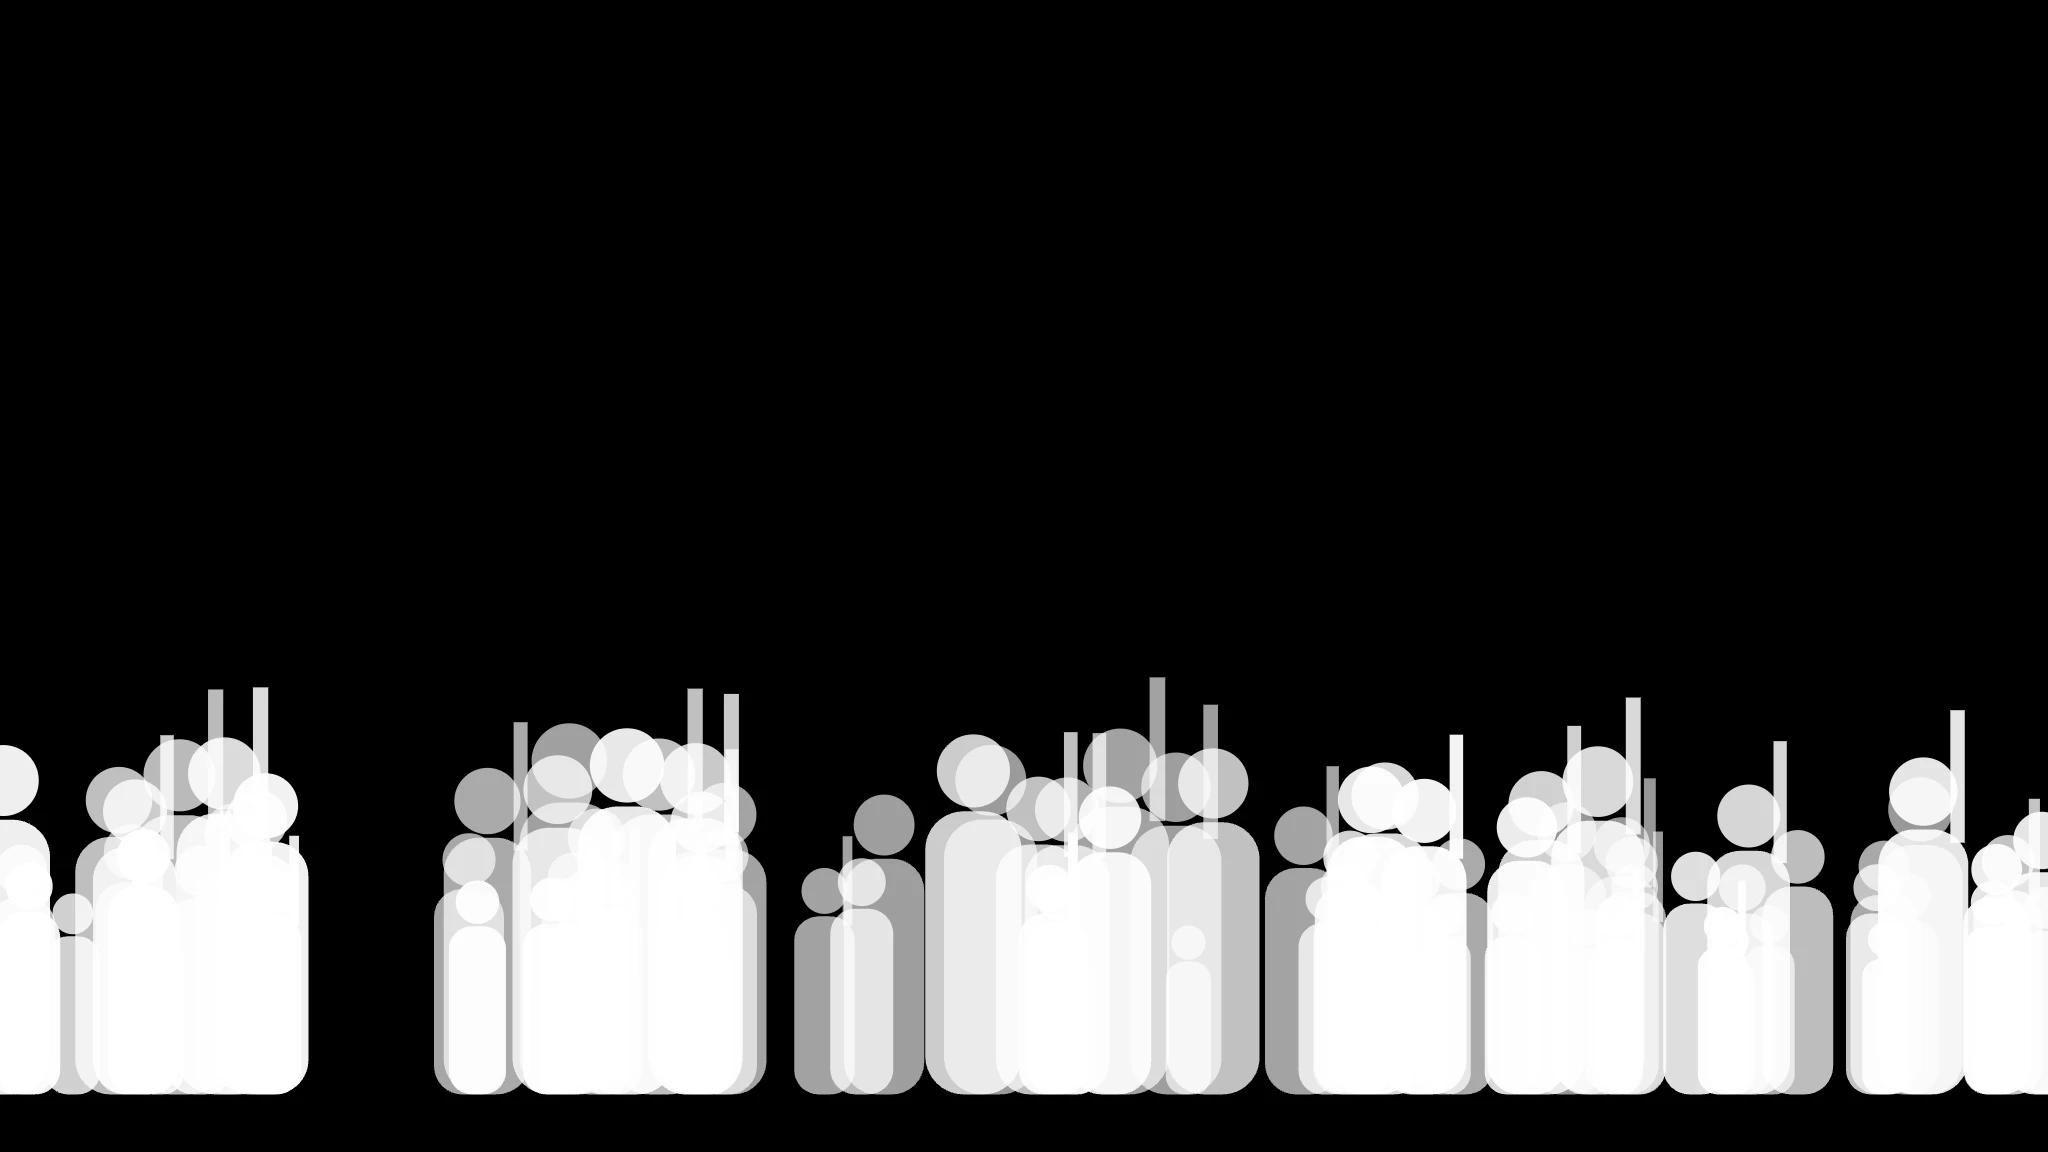
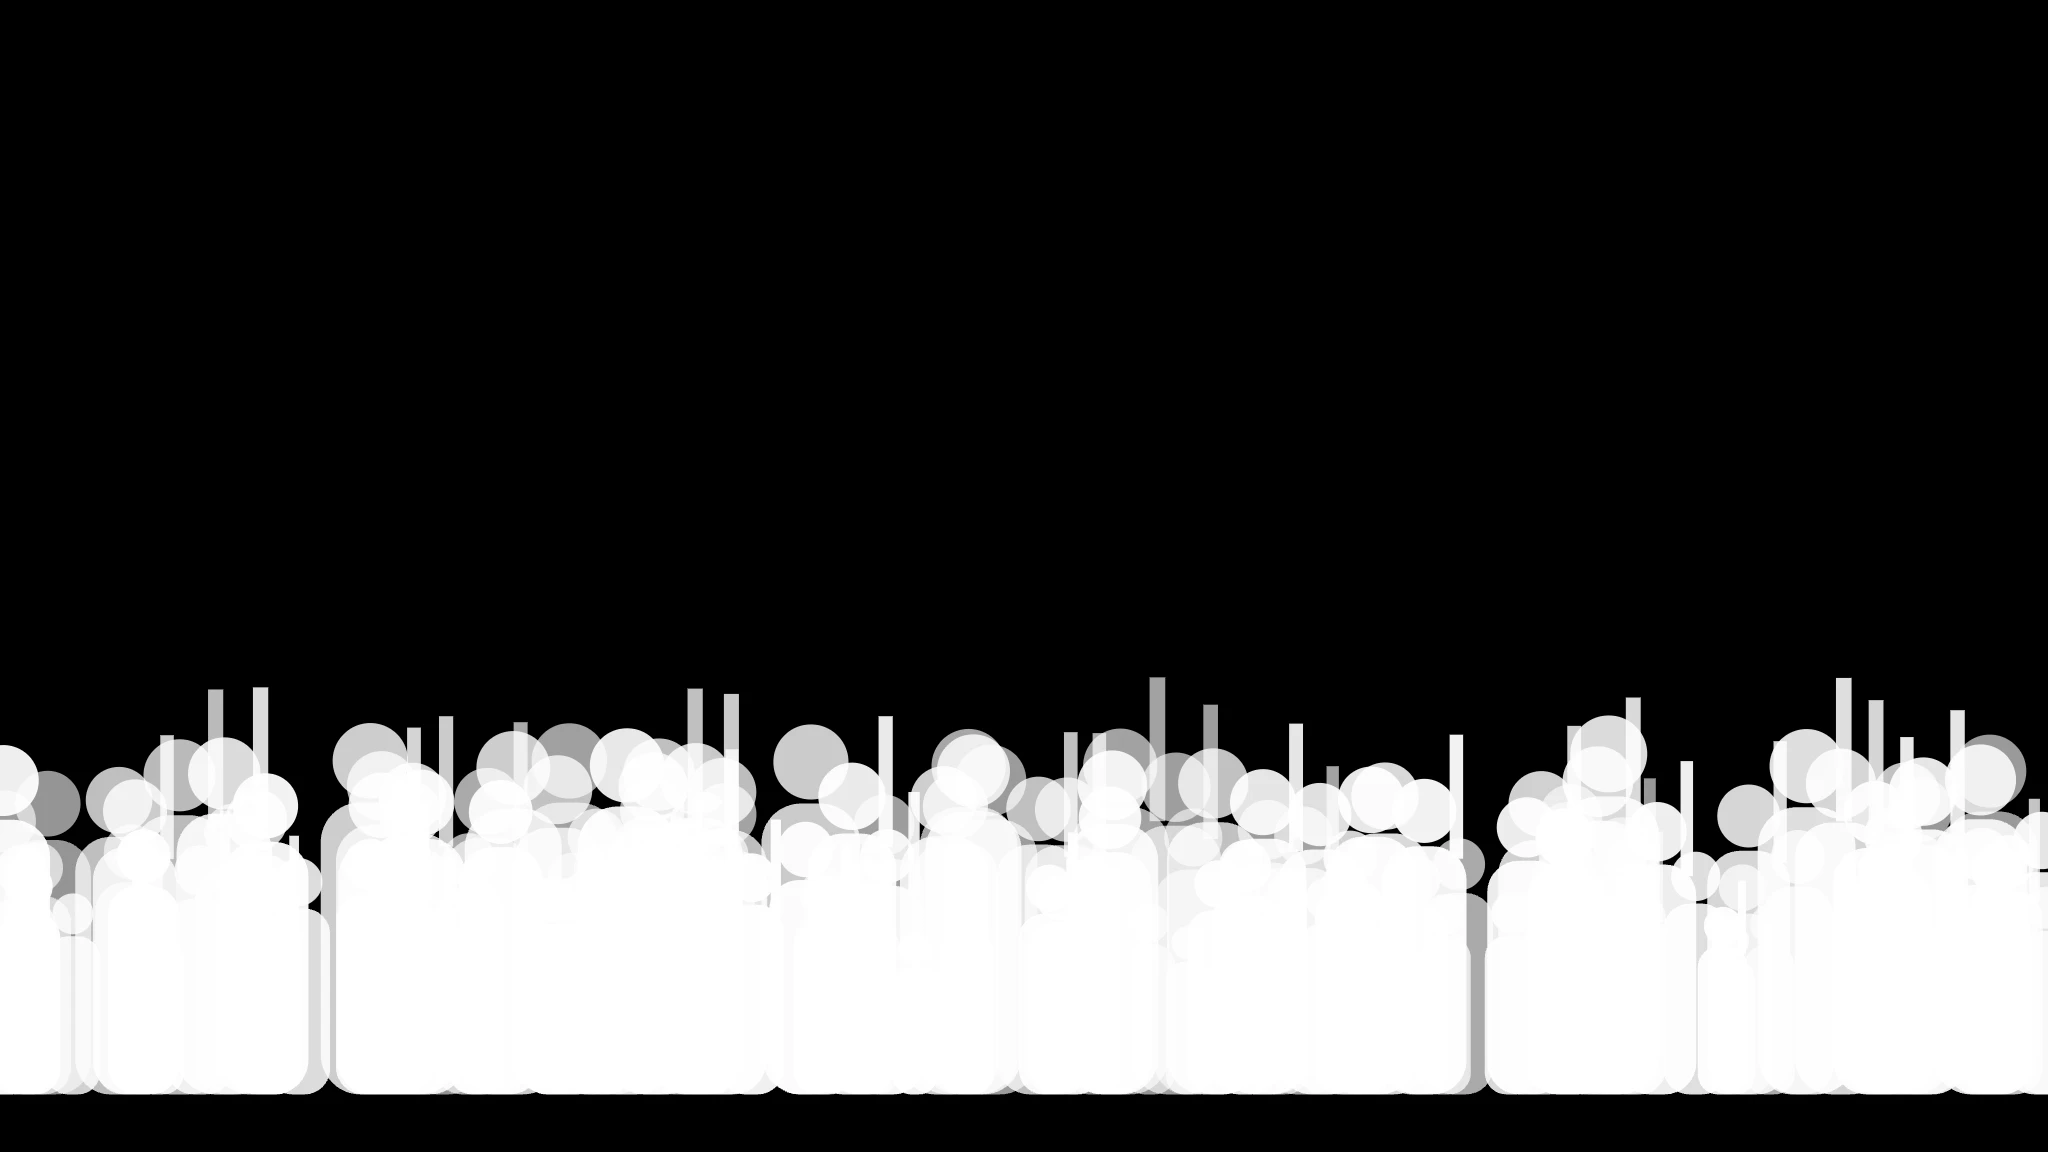
fix: stop the two scenes reading as the same picture
Both placeholder scenes were built from the same skyline and tower
painters, so /blog and /apparel showed one city with a different random
seed. Not visible until the two pages were open side by side.

`uprising` is rebuilt at street level with painters of its own: a wide low
band of firelight where the other scene has a skyline, and human-scale
machines among debris where the other has architecture. Its machines are
now a head and a half taller than the crowd rather than four times its
height — any larger and they stop being figures in a street and become the
other scene's towers.

The art brief gains the rule this violated, as four axes the two scenes
are separated on: vantage, dominant direction, light source and subject
scale. Its first `uprising` prompt asked for "a vast night skyline with
distant towers", which is the wrong picture however good it looks, and is
rewritten. The alt text followed the same drift and is corrected.

Also noted there: every page of the paginated archive shows the same
scene, and what it would cost to change that.

Claude-Session: https://claude.ai/code/session_01XW6QzXQNBgDbcuKajg1qaa

diff --git a/scripts/scene-painters.js b/scripts/scene-painters.js
@@ -63,6 +63,80 @@
     }
   }
 
+  /**
+   * Far plane for a street-level scene: no skyline at all, just what is burning
+   * beyond the end of the road. Wide, low and soft — the light the foreground is
+   * silhouetted against.
+   */
+  function fireGlow(ctx, w, h, a) {
+    const rnd = seeded(a.seed);
+    const horizon = h * 0.74;
+
+    // Three overlapping blooms rather than one, so the glow has a shape.
+    for (let i = 0; i < 3; i++) {
+      const cx = w * (0.2 + rnd() * 0.6);
+      const r = w * (0.18 + rnd() * 0.22);
+      const g = ctx.createRadialGradient(cx, horizon, 0, cx, horizon, r);
+      g.addColorStop(0, 'rgba(255,255,255,' + a.value + ')');
+      g.addColorStop(0.45, 'rgba(255,255,255,' + a.value * 0.35 + ')');
+      g.addColorStop(1, 'rgba(255,255,255,0)');
+      ctx.fillStyle = g;
+      ctx.fillRect(0, 0, w, h);
+    }
+
+    // A haze layer above the fire: smoke catching the light from underneath.
+    const sm = ctx.createLinearGradient(0, horizon - h * 0.42, 0, horizon);
+    sm.addColorStop(0, 'rgba(255,255,255,0)');
+    sm.addColorStop(1, 'rgba(255,255,255,' + a.haze + ')');
+    ctx.fillStyle = sm;
+    ctx.fillRect(0, 0, w, horizon);
+  }
+
+  /**
+   * Mid plane for a street-level scene: the things standing between the viewer
+   * and the fire. Barricade slabs at ground level, and tall bipedal machines —
+   * two legs, a torso and a head — which is what makes it read as a street with
+   * machines in it rather than as a skyline.
+   */
+  function barricade(ctx, w, h, a) {
+    const rnd = seeded(a.seed);
+    const ground = h * 0.86;
+
+    // Debris: irregular slabs at angles, low and broken.
+    for (let i = 0; i < a.slabs; i++) {
+      const bw = w * (0.03 + rnd() * 0.09);
+      const bh = h * (0.04 + rnd() * 0.13);
+      const x = rnd() * w;
+      ctx.save();
+      ctx.translate(x, ground - bh * 0.5);
+      ctx.rotate((rnd() - 0.5) * 0.7);
+      ctx.fillStyle = 'rgba(255,255,255,' + a.value * (0.5 + rnd() * 0.5) + ')';
+      ctx.fillRect(-bw / 2, -bh / 2, bw, bh);
+      ctx.restore();
+    }
+
+    // Machines: a head and a half taller than the crowd in front of them, and
+    // thinner. Any larger and they stop being figures in a street and become
+    // architecture, which is the other scene's job.
+    for (let i = 0; i < a.machines; i++) {
+      const s = 0.8 + rnd() * 0.5;
+      const cx = w * (0.06 + rnd() * 0.88);
+      const legH = h * 0.15 * s;
+      const torsoH = h * 0.1 * s;
+      const bw = h * 0.036 * s;
+      ctx.fillStyle = 'rgba(255,255,255,' + a.value + ')';
+      // Two legs, splayed.
+      ctx.fillRect(cx - bw * 0.5, ground - legH, bw * 0.22, legH);
+      ctx.fillRect(cx + bw * 0.3, ground - legH, bw * 0.22, legH);
+      // Torso.
+      ctx.fillRect(cx - bw * 0.55, ground - legH - torsoH, bw * 1.1, torsoH);
+      // Head, offset to one side: nothing symmetrical reads as alive.
+      ctx.fillRect(cx - bw * 0.1, ground - legH - torsoH - bw * 0.5, bw * 0.62, bw * 0.5);
+      // One arm, out.
+      ctx.fillRect(cx + bw * 0.5, ground - legH - torsoH * 0.8, bw * 0.75, bw * 0.16);
+    }
+  }
+
   /** Near plane: a hard silhouette edge — a rooftop, or the backs of a crowd. */
   function nearEdge(ctx, w, h, a) {
     const rnd = seeded(a.seed);
@@ -130,7 +204,7 @@
     }
   }
 
-  window.PAINTERS = { farSkyline, midTowers, nearEdge, crowd, sparks };
+  window.PAINTERS = { farSkyline, midTowers, fireGlow, barricade, nearEdge, crowd, sparks };
 
   /** Paint one layer onto the shared canvas and hand back an encoded WebP. */
   window.paintLayer = function (painter, w, h, a, quality) {

diff --git a/docs/scene-art-prompts.md b/docs/scene-art-prompts.md
@@ -40,11 +40,31 @@ Six constraints, all of them load-bearing:
 6. **2048 × 1152, exported as WebP.** Wider than any tube on the site, because
    the parallax needs slack to slide into.
 
+### The scenes must not read as the same picture
+
+The first pass of the placeholders failed this and it was not obvious until the
+two pages were open side by side: both were built from the same skyline and
+tower generators, so they read as one city with a different random seed.
+
+The two scenes are separated on four axes, and a plate that drifts on any of them
+pulls the whole scene back towards the other one:
+
+| | `uprising` (blog) | `city` (apparel) |
+|---|---|---|
+| Vantage | street level, looking down a road | a rooftop, looking out and down |
+| Dominant direction | horizontal — a low, wide band of light | vertical — towers filling the frame top to bottom |
+| Light source | fire beyond the end of the street | windows, signage, and the wet sheen they throw |
+| Subject scale | figures: people and machines at human height | architecture: nothing in frame is human-sized |
+
+If a prompt for `uprising` produces a skyline, it is the wrong picture, however
+good it looks. The same goes the other way: a person legible in `city` breaks the
+scale that makes the towers read as enormous.
+
 ### Plate budgets
 
 | Plate | Tone in `scenes.json` | Peak luminance | Coverage | Notes |
 |---|---|---|---|---|
-| `01-far` | `structure` | 15–20 % white | broad, low | Haze and a distant skyline. Nothing sharp. |
+| `01-far` | `structure` | 15–20 % white | broad, low | Haze and whatever the scene's light comes from. Nothing sharp. |
 | `02-mid` | `depth` | 30–35 % white | moderate | The body of the scene. Carries the accent-depth hue. |
 | `03-*` | `occluder` | pure white / pure black | 25–40 % of frame | A mask. No midtones, no detail inside the shape. |
 | `04-*` | `accent` | 70–85 % white | under 5 % of frame | Sparse, bright, small: embers, rain, signage. Carries the accent hue. |
@@ -84,19 +104,20 @@ a whole scene. Every prompt below ends with the isolation clause; keep it.
 The archive opens on it. Nothing is read on the glass, so this scene can run at
 full strength.
 
-**Master / `01-far`**
+**Master / `01-far`** — the fire, and nothing that resembles a skyline
 ```
-a vast night skyline burning on the horizon, distant towers under thick smoke,
-volumetric haze, backlit, monochrome, extreme wide shot, low horizon,
-cinematic anamorphic, high contrast between light and deep black,
-no light source in the foreground
+the end of a city street at night, buildings burning out of frame beyond it,
+a wide low band of firelight and smoke catching the light from underneath,
+monochrome, eye-level, very low horizon, no towers, no skyline, nothing tall,
+volumetric haze, high contrast between light and deep black
 ```
 
 **`02-mid` — the machines and the street**
 ```
-mid-ground of a night street, tall industrial structures and the hard geometry of
-humanoid machines standing among them, lit only by fires far behind them,
-rim light, monochrome, no colour, cinematic wide shot
+mid-ground of a night street at eye level, humanoid machines standing among
+overturned debris and barricades, hard industrial geometry, human-scale, lit only
+by fires far behind them, rim light, monochrome, no colour, cinematic wide shot,
+no architecture above the frame
 ```
 
 **`03-crowd` — the occluder**
@@ -118,6 +139,10 @@ pure black background, nothing else in frame, macro particles, high contrast
 The other reading of the brief — people and machines working together rather
 than against each other. Same four plates, same budgets; swap the files in and
 change nothing else.
+
+The same four-axis separation applies: `kinship` is an interior at eye level, lit
+by one lamp, with people at human scale — it must not read as either the street
+or the skyline.
 
 ```
 01-far:  a quiet domestic interior at night seen from deep inside, windows
@@ -223,3 +248,10 @@ floors are 3:1 for the heading and 4.5:1 for the lede.
 Using the `kinship` set instead of `uprising` means renaming its files to the
 `uprising/*` paths, or adding a `kinship` entry to `src/lib/scenes.json` and
 pointing `src/pages/blog/[...page].astro` at it.
+
+## Open: the paginated archive
+
+Every page of `/blog` currently shows the same scene — `/blog/2/` gets the band
+`/blog/` has. Giving each page its own would mean one more scene per page of
+archive, which grows with the post count. If it is wanted, the cheapest version
+is a small pool cycled by page number rather than one scene per page.
